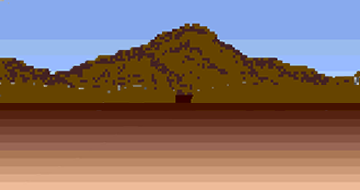
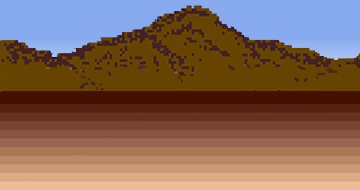
16bit Graphics
Added 16bit compass image.   Added a sun for 16bit game play.  Had to change background layers so sun set behind the mountain.  Turn "W" into to layers, sky/ground  and mountain.  So we draw sky, sun then mountain.  So the suns sets behind the moutain.

Changed region(s): [[0.0, 0.0263, 1.0, 0.5526], [0.0, 0.0, 0.0306, 0.0263]]

diff --git a/src/3Dview.cpp b/src/3Dview.cpp
@@ -13,7 +13,7 @@
 
 // Storage for textures
 const int numberOfTextures = 68;
-const int numberOfBackgrounds = 49; //was 46
+const int numberOfBackgrounds = 55; //was 46
 GLuint texture[numberOfTextures];
 sf::Texture background[numberOfBackgrounds];
 string textureNames[numberOfTextures];
@@ -50,34 +50,36 @@ void draw3DView()
 void draw3DBackground()
 {
 	sf::Sprite Background;
+	sf::Sprite Mountain;
+	float scaleX, scaleY;
 	Background.setScale(1.0, 1.0);
 
 		if (graphicMode == ATARI_SMALL) // Atari 8bit original textures and size
 		{
-			float scaleX = float(viewWidth) / float(360);
-			float scaleY = float(viewHeight) / float(190);
+			scaleX = float(viewWidth) / float(360);
+			scaleY = float(viewHeight) / float(190);
 			Background.setScale(scaleX, scaleY);
 			Background.setPosition(viewPortX, viewPortY);
 		}
 		if (graphicMode == A16BIT_SMALL) // New textures and original size
 		{
-			float scaleX = float(viewWidth) / float(360);
-			float scaleY = float(viewHeight) / float(190);
+			scaleX = float(viewWidth) / float(360);
+			scaleY = float(viewHeight) / float(190);
 			Background.setScale(scaleX, scaleY);
 			Background.setPosition(viewPortX, viewPortY);
 		}
 		if (graphicMode == ALTERNATE_SMALL) // New textures and original size
 		{
-			float scaleX = float(viewWidth) / float(1024);
-			float scaleY = float(viewHeight/2) / float(384);
+			scaleX = float(viewWidth) / float(1024);
+			scaleY = float(viewHeight/2) / float(384);
 			Background.setScale(scaleX, scaleY);
 			Background.setPosition(viewPortX, viewPortY);
 		}
 		if (graphicMode == ALTERNATE_LARGE) // New textures and large size
 		{
 			Background.setPosition(0, 0); // Assumes large 3D view
-			float scaleX = float(viewWidth) / float(1024);
-			float scaleY = float(viewHeight/2) / float(384);
+			scaleX = float(viewWidth) / float(1024);
+			scaleY = float(viewHeight/2) / float(384);
 			Background.setScale(scaleX, scaleY);
 			Background.setPosition(viewPortX, (viewPortY));
 		}
@@ -129,51 +131,51 @@ void draw3DBackground()
 
 		if (plyr.timeOfDay==2) // sunrise1
 		{
-			if (plyr.facing==1) { Background.setTexture(background[21]); } // w view
-			if (plyr.facing==2) { Background.setTexture(background[20]); } // n view
-			if (plyr.facing==3) { Background.setTexture(background[18]); } // e view
+			if (plyr.facing==1) { Background.setTexture(background[21]); Mountain.setTexture(background[49]); } // w view
+			if (plyr.facing==2) { Background.setTexture(background[20]);  } // n view
+			if (plyr.facing==3) { Background.setTexture(background[18]);  } // e view
 			if (plyr.facing==4) { Background.setTexture(background[19]); } // s view
 		}
 
 
 		if (plyr.timeOfDay==3) // sunrise2
 		{
-			if (plyr.facing==1) { Background.setTexture(background[25]); } // w view
-			if (plyr.facing==2) { Background.setTexture(background[24]); } // n view
-			if (plyr.facing==3) { Background.setTexture(background[22]); } // e view
-			if (plyr.facing==4) { Background.setTexture(background[23]); } // s view
+			if (plyr.facing==1) { Background.setTexture(background[25]);  Mountain.setTexture(background[50]);} // w view
+			if (plyr.facing==2) { Background.setTexture(background[24]);  } // n view
+			if (plyr.facing==3) { Background.setTexture(background[22]);  } // e view
+			if (plyr.facing==4) { Background.setTexture(background[23]);  } // s view
 		}
 
 		if (plyr.timeOfDay==4) // sunrise3
 		{
-			if (plyr.facing==1) { Background.setTexture(background[29]); } // w view
-			if (plyr.facing==2) { Background.setTexture(background[28]); } // n view
-			if (plyr.facing==3) { Background.setTexture(background[26]); } // e view
+			if (plyr.facing==1) { Background.setTexture(background[29]); Mountain.setTexture(background[51]); } // w view
+			if (plyr.facing==2) { Background.setTexture(background[28]);  } // n view
+			if (plyr.facing==3) { Background.setTexture(background[26]);  } // e view
 			if (plyr.facing==4) { Background.setTexture(background[27]); } // s view
 		}
 
 		if (plyr.timeOfDay==5) // sunrise3
 		{
-			if (plyr.facing==1) { Background.setTexture(background[33]); } // w view
-			if (plyr.facing==2) { Background.setTexture(background[32]); } // n view
-			if (plyr.facing==3) { Background.setTexture(background[30]); } // e view
-			if (plyr.facing==4) { Background.setTexture(background[31]); } // s view
+			if (plyr.facing==1) { Background.setTexture(background[33]); Mountain.setTexture(background[52]); } // w view
+			if (plyr.facing==2) { Background.setTexture(background[32]);  } // n view
+			if (plyr.facing==3) { Background.setTexture(background[30]);  } // e view
+			if (plyr.facing==4) { Background.setTexture(background[31]);  } // s view
 		}
 
 		if (plyr.timeOfDay==6) // sunrise3
 		{
-			if (plyr.facing==1) { Background.setTexture(background[37]); } // w view
-			if (plyr.facing==2) { Background.setTexture(background[36]); } // n view
+			if (plyr.facing==1) { Background.setTexture(background[37]); Mountain.setTexture(background[53]); } // w view
+			if (plyr.facing==2) { Background.setTexture(background[36]);  } // n view
 			if (plyr.facing==3) { Background.setTexture(background[34]); } // e view
-			if (plyr.facing==4) { Background.setTexture(background[35]); } // s view
+			if (plyr.facing==4) { Background.setTexture(background[35]);  } // s view
 		}
 
 		if (plyr.timeOfDay==7) // sunrise3
 		{
-			if (plyr.facing==1) { Background.setTexture(background[41]); } // w view
-			if (plyr.facing==2) { Background.setTexture(background[40]); } // n view
-			if (plyr.facing==3) { Background.setTexture(background[38]); } // e view
-			if (plyr.facing==4) { Background.setTexture(background[39]); } // s view
+			if (plyr.facing==1) { Background.setTexture(background[41]); Mountain.setTexture(background[54]); } // w view
+			if (plyr.facing==2) { Background.setTexture(background[40]);  } // n view
+			if (plyr.facing==3) { Background.setTexture(background[38]);  } // e view
+			if (plyr.facing==4) { Background.setTexture(background[39]);  } // s view
 		}
 
 		if (plyr.timeOfDay==0)
@@ -184,7 +186,60 @@ void draw3DBackground()
 			if (plyr.facing==4) { Background.setTexture(background[5]); } // s view
 		}
 	}
+
+
+	
 		App.draw(Background);
+
+	if (plyr.facing==1 && graphicMode == A16BIT_SMALL)
+	{
+		//16bit version had a sun that moved at sunset and sunrise.   
+		//split background into 2 images,  the ground and sky.
+		// and mountain range.   So the run is displayed between those
+		// two image so the mountain draw ontop of the sun.
+		// This is only done for the West background during certain times.
+		int y = 0;
+		int display = 1;
+		
+		if ((plyr.hours==7) && (plyr.minutes>29)  )
+			display = 0;
+		if ((plyr.hours > 8) && (plyr.hours < 16)  )
+			display = 0;
+		if ((plyr.hours < 4) || (plyr.hours == 4 && plyr.minutes< 30) )
+			display = 0;
+			
+			if (display == 1)					
+			{
+				int time = ((plyr.hours - 16 )* 60) + plyr.minutes;
+				if (plyr.hours >= 16)
+				{
+					time = ((plyr.hours - 16 )* 60) + plyr.minutes;
+					y = ((int)time / 3);
+				} else 
+				if (plyr.hours <= 8 && ((plyr.hours == 4 && plyr.minutes > 29) || plyr.hours > 4))
+				{
+					time = ((plyr.hours - 4 )* 60) + plyr.minutes;
+					y = 61 - ((int)time / 3);
+				}
+
+				if (y < 60)
+				{
+					sf::CircleShape circle;
+					circle.setRadius(4);
+					circle.setOutlineColor(sf::Color::Yellow);
+					circle.setOutlineThickness(5);
+					circle.setPosition(viewPortX+185, viewPortY+y);
+					circle.setFillColor(sf::Color::Yellow);
+					App.draw(circle);
+				}
+
+				Mountain.setScale(scaleX, scaleY);
+				Mountain.setPosition(viewPortX, viewPortY);
+				App.draw(Mountain);
+			}
+	}		
+
+
 }
 
 

diff --git a/src/display.cpp b/src/display.cpp
@@ -617,10 +617,15 @@ void drawCompass()
 			int y = (windowHeight-128)/2;
 			compass.setPosition(x, y);
 		}
-		else
+		else 	if (graphicMode == A16BIT_SMALL)
+		{
+			 int x = (viewPortX-78)/2;
+			int y = viewPortY+((viewHeight-78)/2);
+			compass.setPosition(x, y);
+		} else 
 		{
 		    /* Normal Small 3D view mode */
-			int x = (viewPortX-128)/2;
+			 int x = (viewPortX-128)/2;
 			int y = viewPortY+((viewHeight-128)/2);
 			compass.setPosition(x, y);
 		}
@@ -637,10 +642,18 @@ void loadResources()
 
 	loadCounterImages();
 
-	compassN.loadFromFile("data/images/compass_n.png");
-	compassS.loadFromFile("data/images/compass_s.png");
-	compassW.loadFromFile("data/images/compass_w.png");
-	compassE.loadFromFile("data/images/compass_e.png");
+	if (graphicMode != A16BIT_SMALL)
+	{
+		compassN.loadFromFile("data/images/compass_n.png");
+		compassS.loadFromFile("data/images/compass_s.png");
+		compassW.loadFromFile("data/images/compass_w.png");
+		compassE.loadFromFile("data/images/compass_e.png");
+	} else {
+		compassN.loadFromFile("data/images/compass_n_16bit.png");
+		compassS.loadFromFile("data/images/compass_s_16bit.png");
+		compassW.loadFromFile("data/images/compass_w_16bit.png");
+		compassE.loadFromFile("data/images/compass_e_16bit.png");
+	}
 
 	// Create a sprite for the stat banner
 	BannerImageCity.loadFromFile("data/images/cityBanner.png");

diff --git a/src/encounter.cpp b/src/encounter.cpp
@@ -442,7 +442,7 @@ void updateOpponents()
 	{
 		if (Opponents[i].hp>0) encounterQuantity++;
 	}
-	
+	if (encounterQuantity > 1)
 	std:cout << "Num Opn# " << encounterQuantity << "\n";
 }
 
